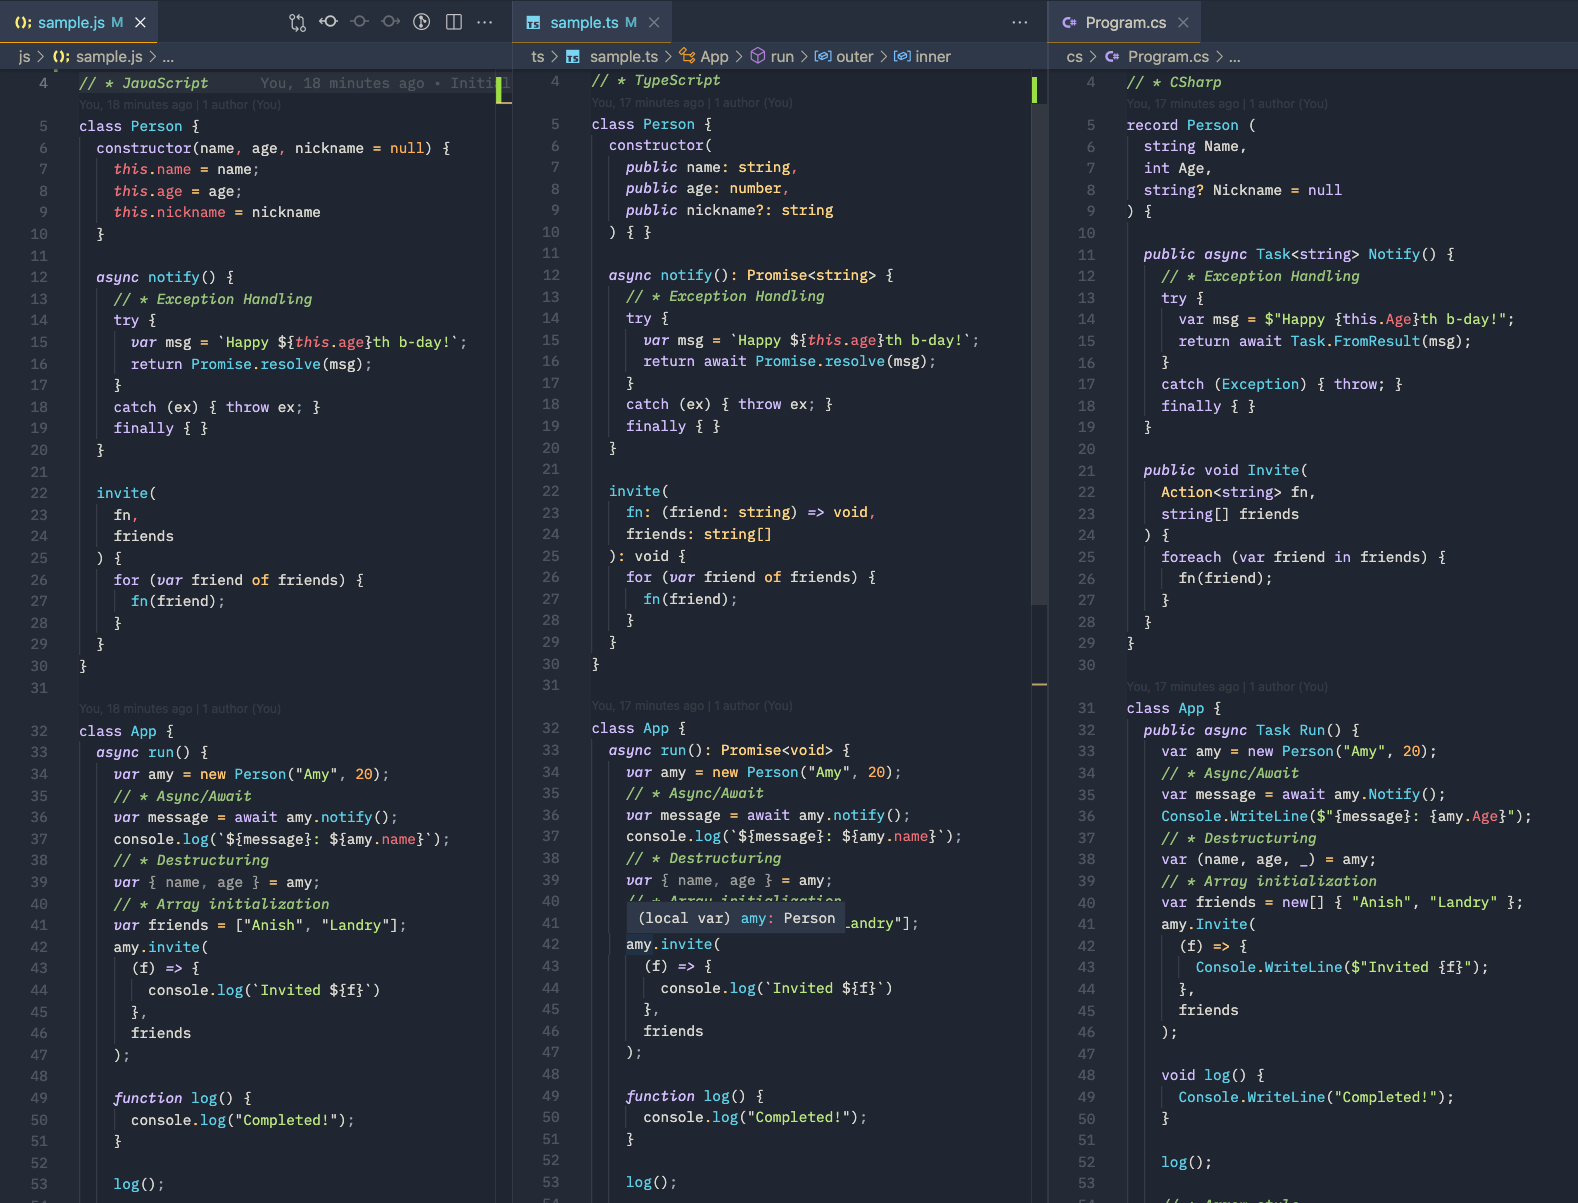
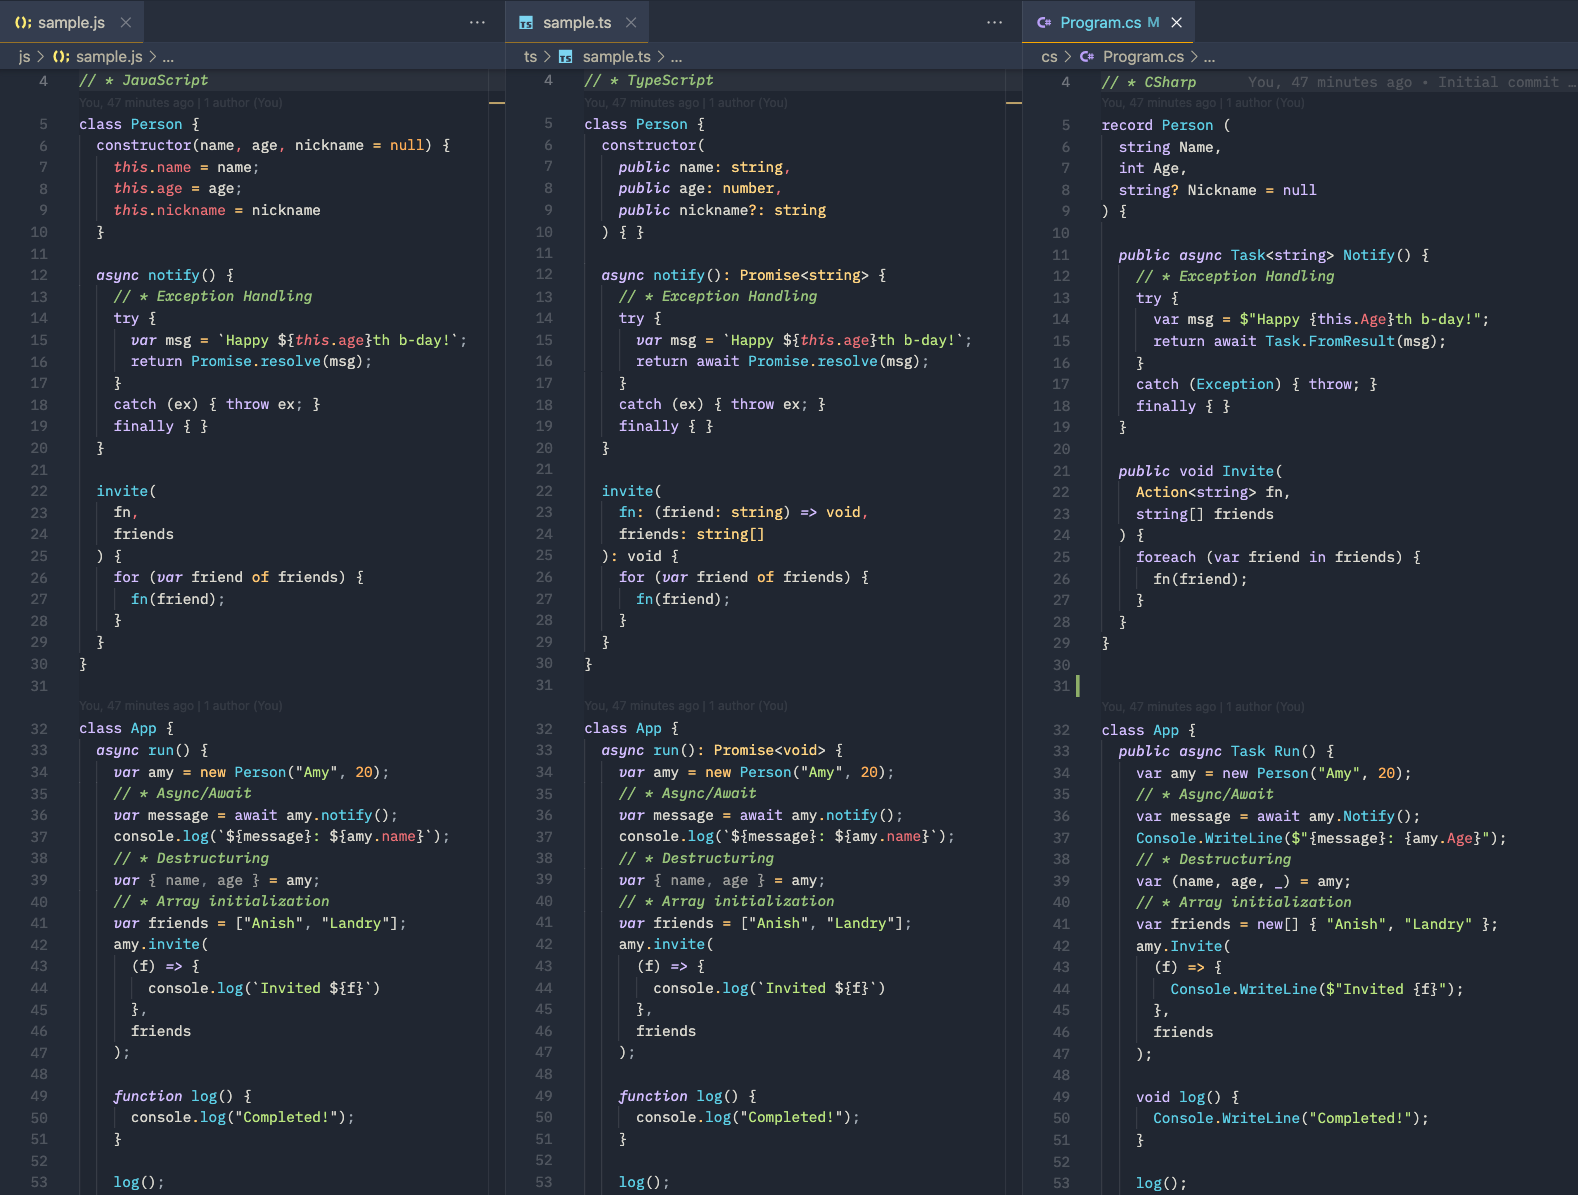
Added better screenshot

diff --git a/cs/Program.cs b/cs/Program.cs
@@ -28,6 +28,7 @@ record Person (
   }
 }
 
+
 class App {
   public async Task Run() {
     var amy = new Person("Amy", 20);

diff --git a/README.md b/README.md
@@ -54,3 +54,9 @@ To run the C# sample:
 cd cs
 dotnet run
 ```
+
+To create your own .NET console project once you have the SDK installed:
+
+```
+dotnet new console
+```
